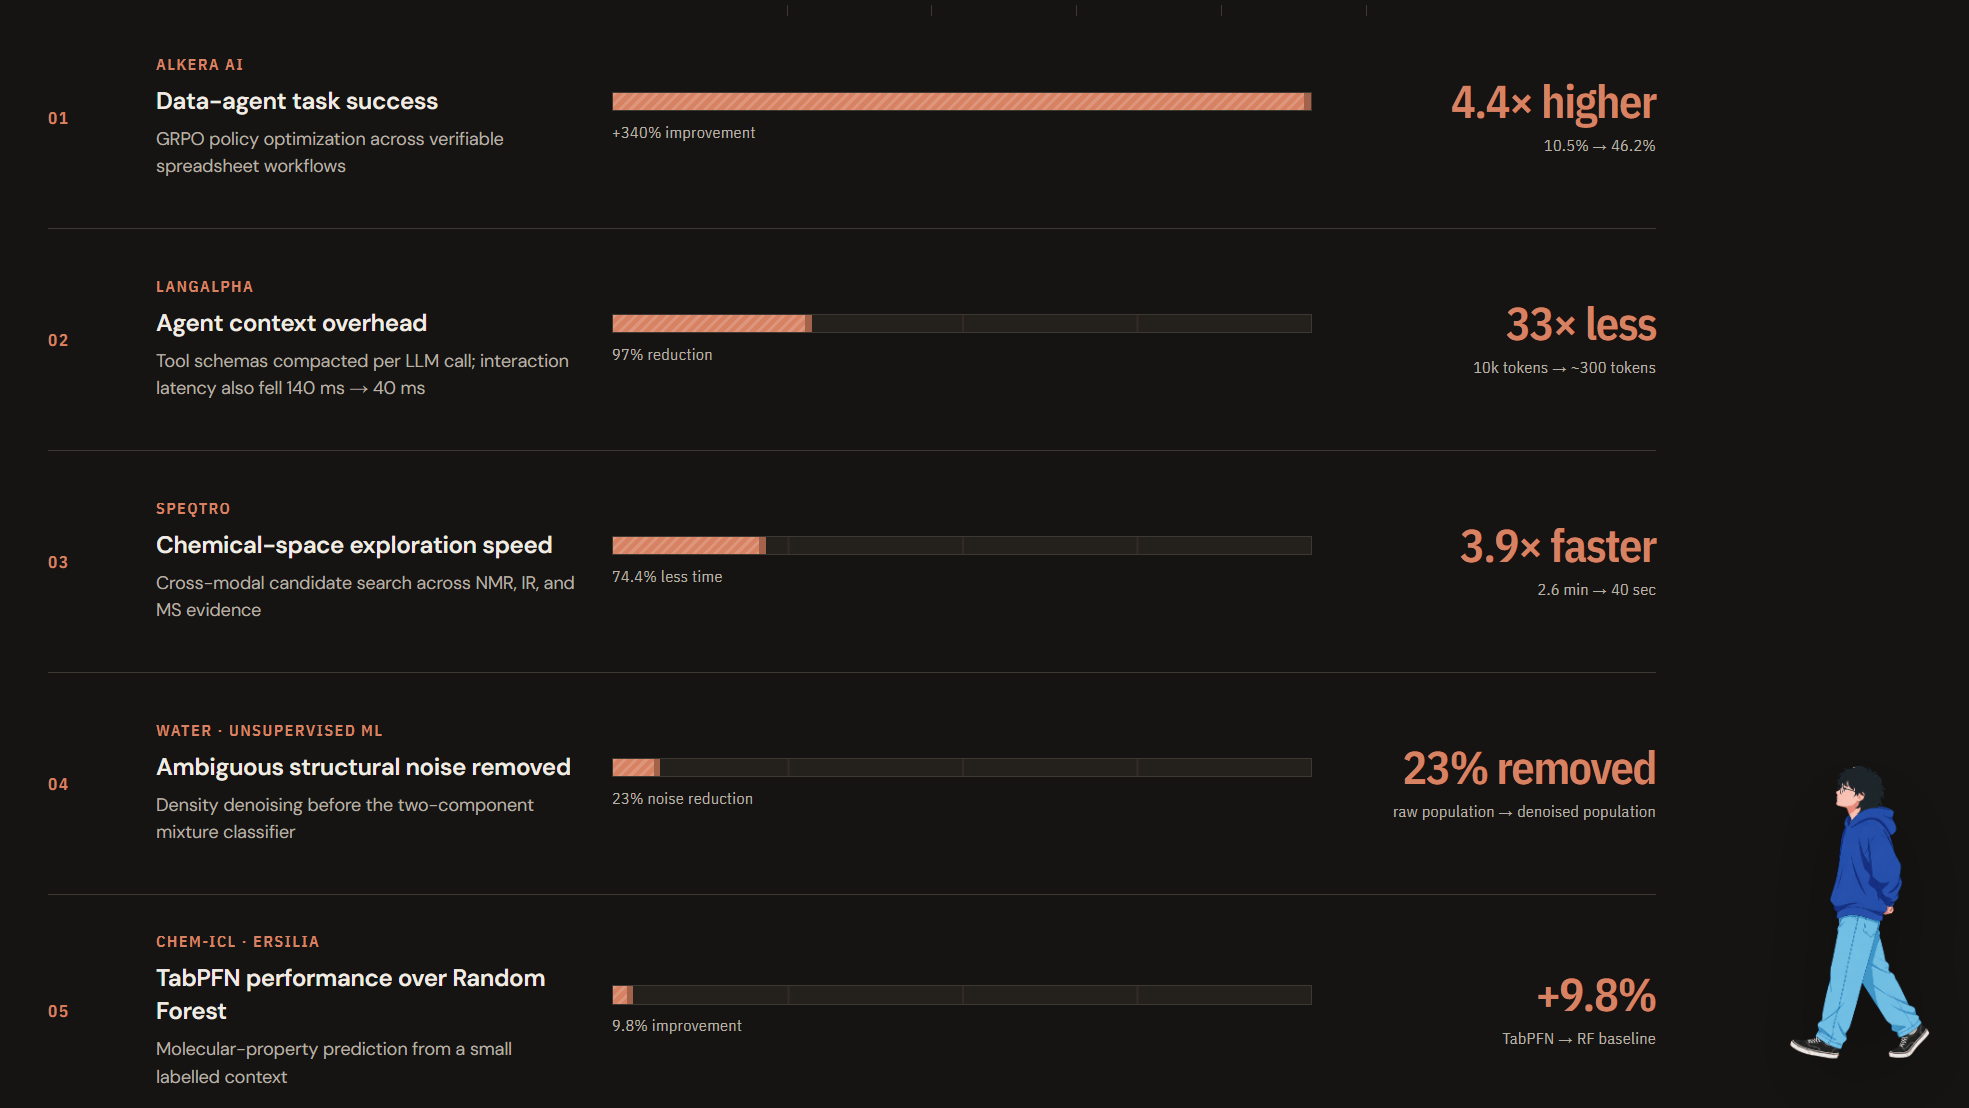
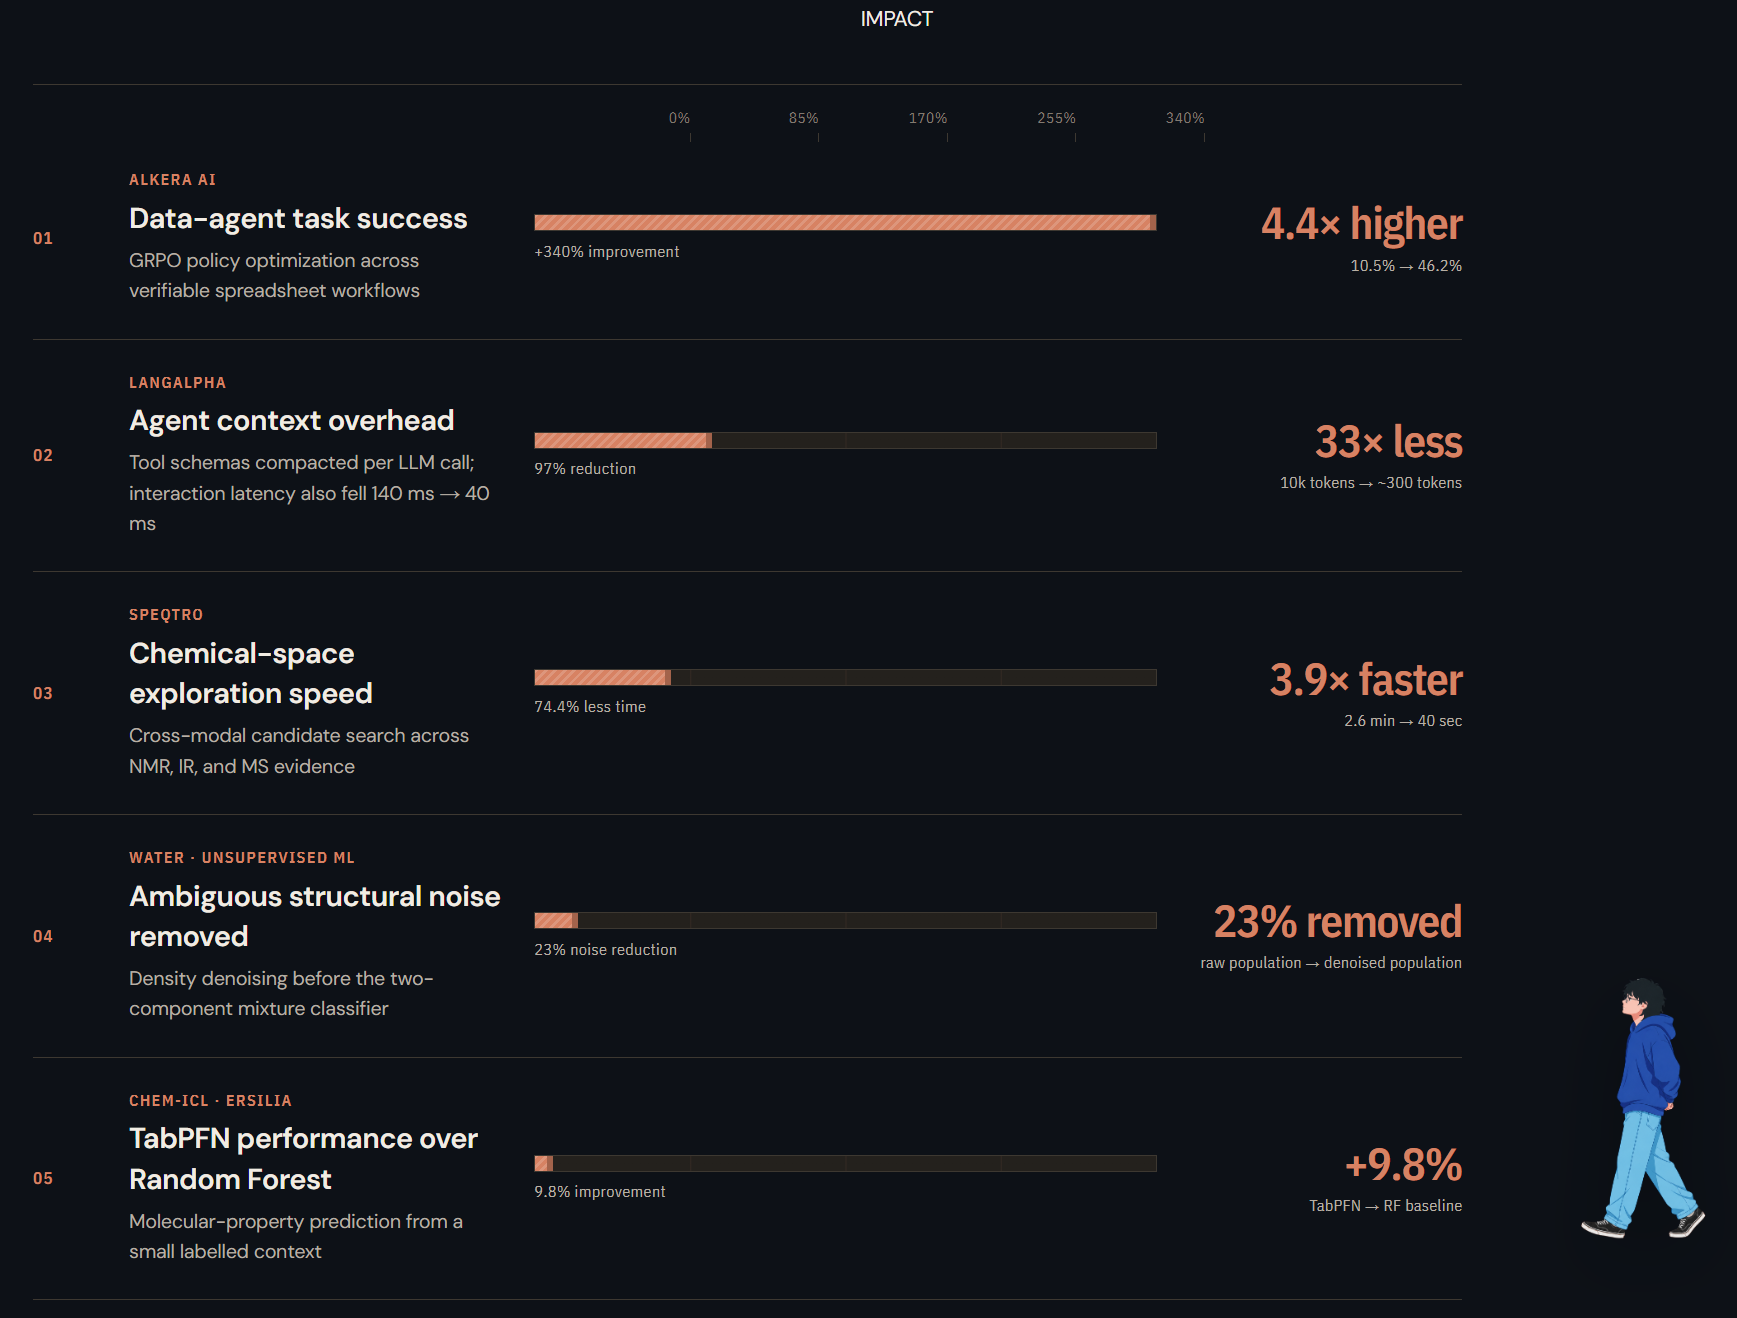
Match profile visuals to GitHub dark background

diff --git a/README.md b/README.md
@@ -11,10 +11,9 @@
 </p>
 
 <p align="center">
-  I am a researcher and engineer working where <strong>reinforcement learning</strong>,
-  <strong>interpretable AI</strong>, <strong>molecular science</strong>, and
-  <strong>computational physics</strong> overlap. I build systems that make learned
-  and scientific models easier to train, evaluate, and understand.
+  Hi, I'm Michael — a <strong>Computer Science + Mathematics</strong> student at
+  <strong>Harvey Mudd College</strong>, Class of 2028. I work across reinforcement
+  learning, agentic AI, molecular machine learning, and computational physics.
 </p>
 
 <br>
@@ -24,9 +23,3 @@
 <br>
 
 <img src="assets/working-stack.png" width="100%" alt="Working stack across reinforcement learning, agentic AI, molecular simulation, and systems and data engineering">
-
-<br>
-
-<p align="center">
-  <sub>Computer Science + Mathematics · Harvey Mudd College · Class of 2028</sub>
-</p>
